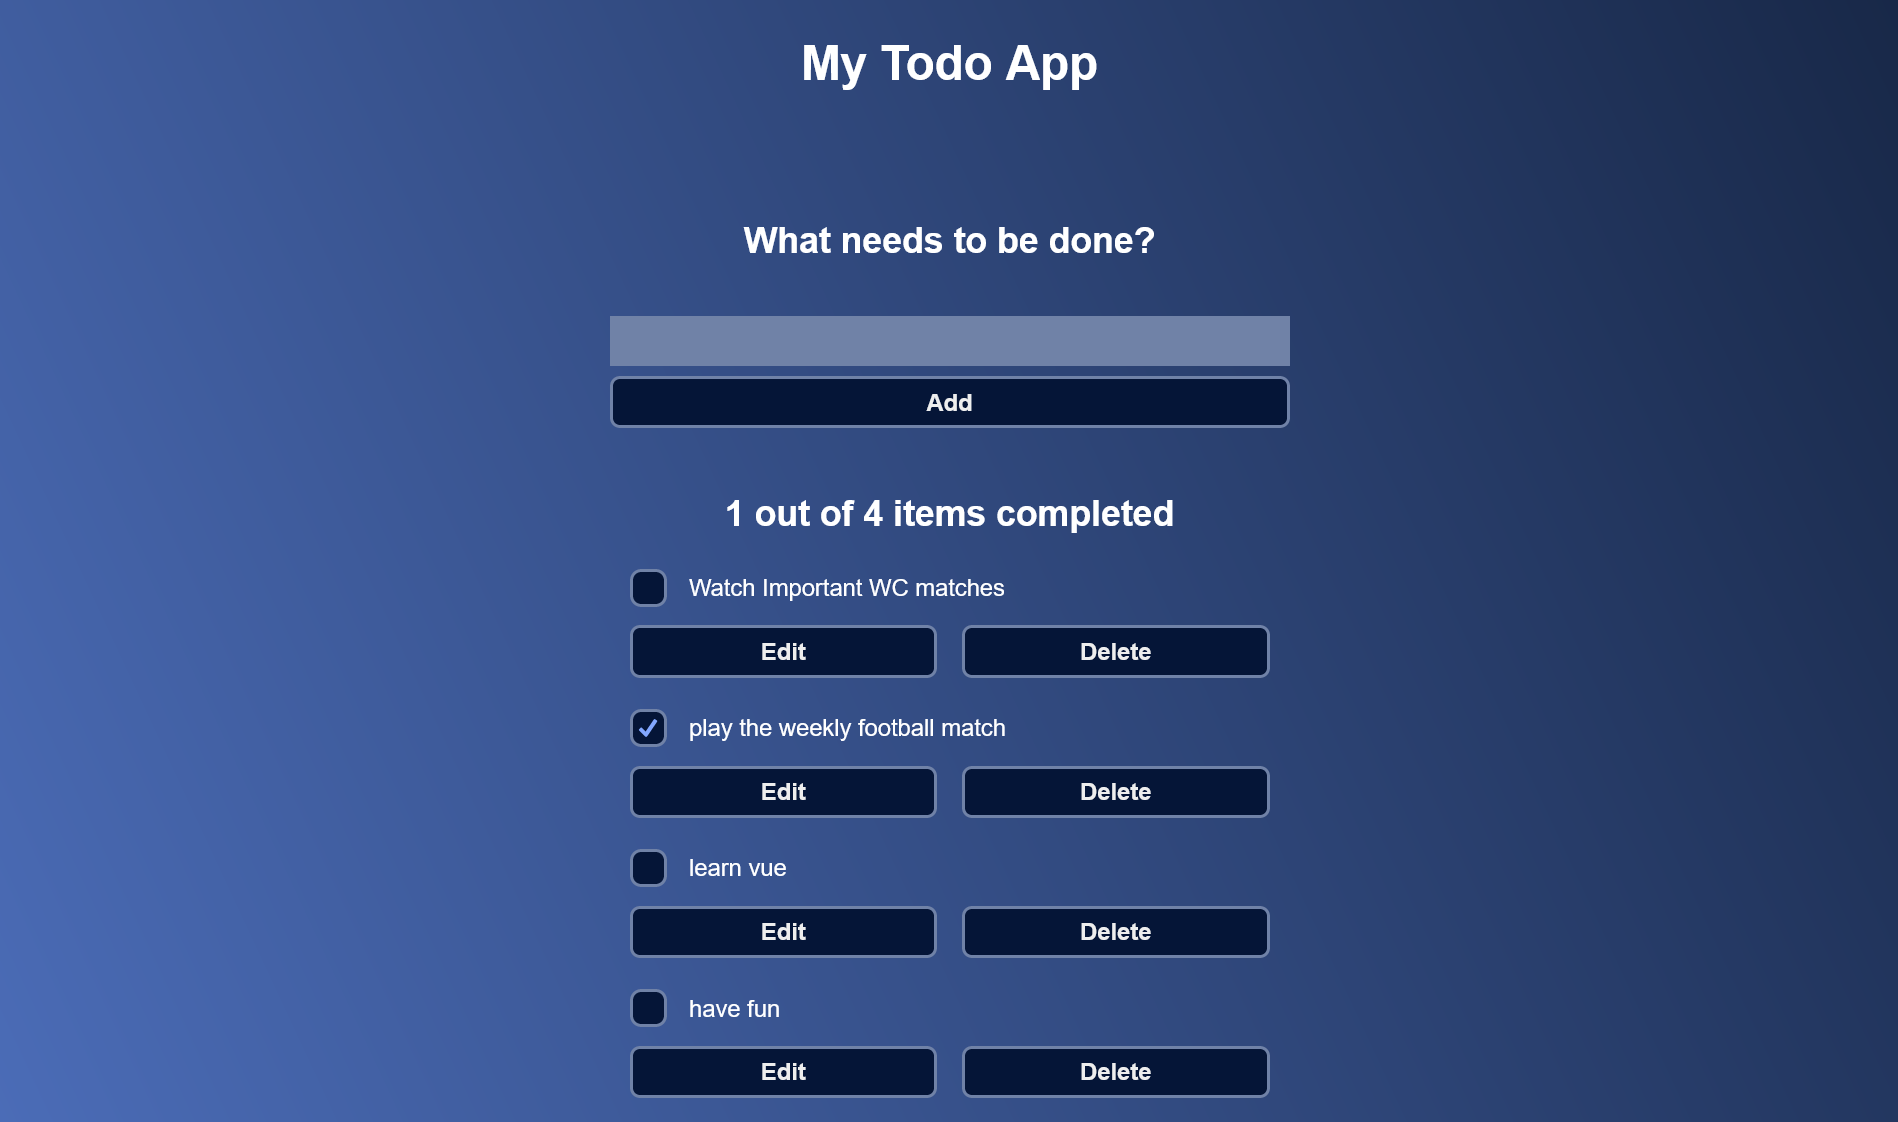
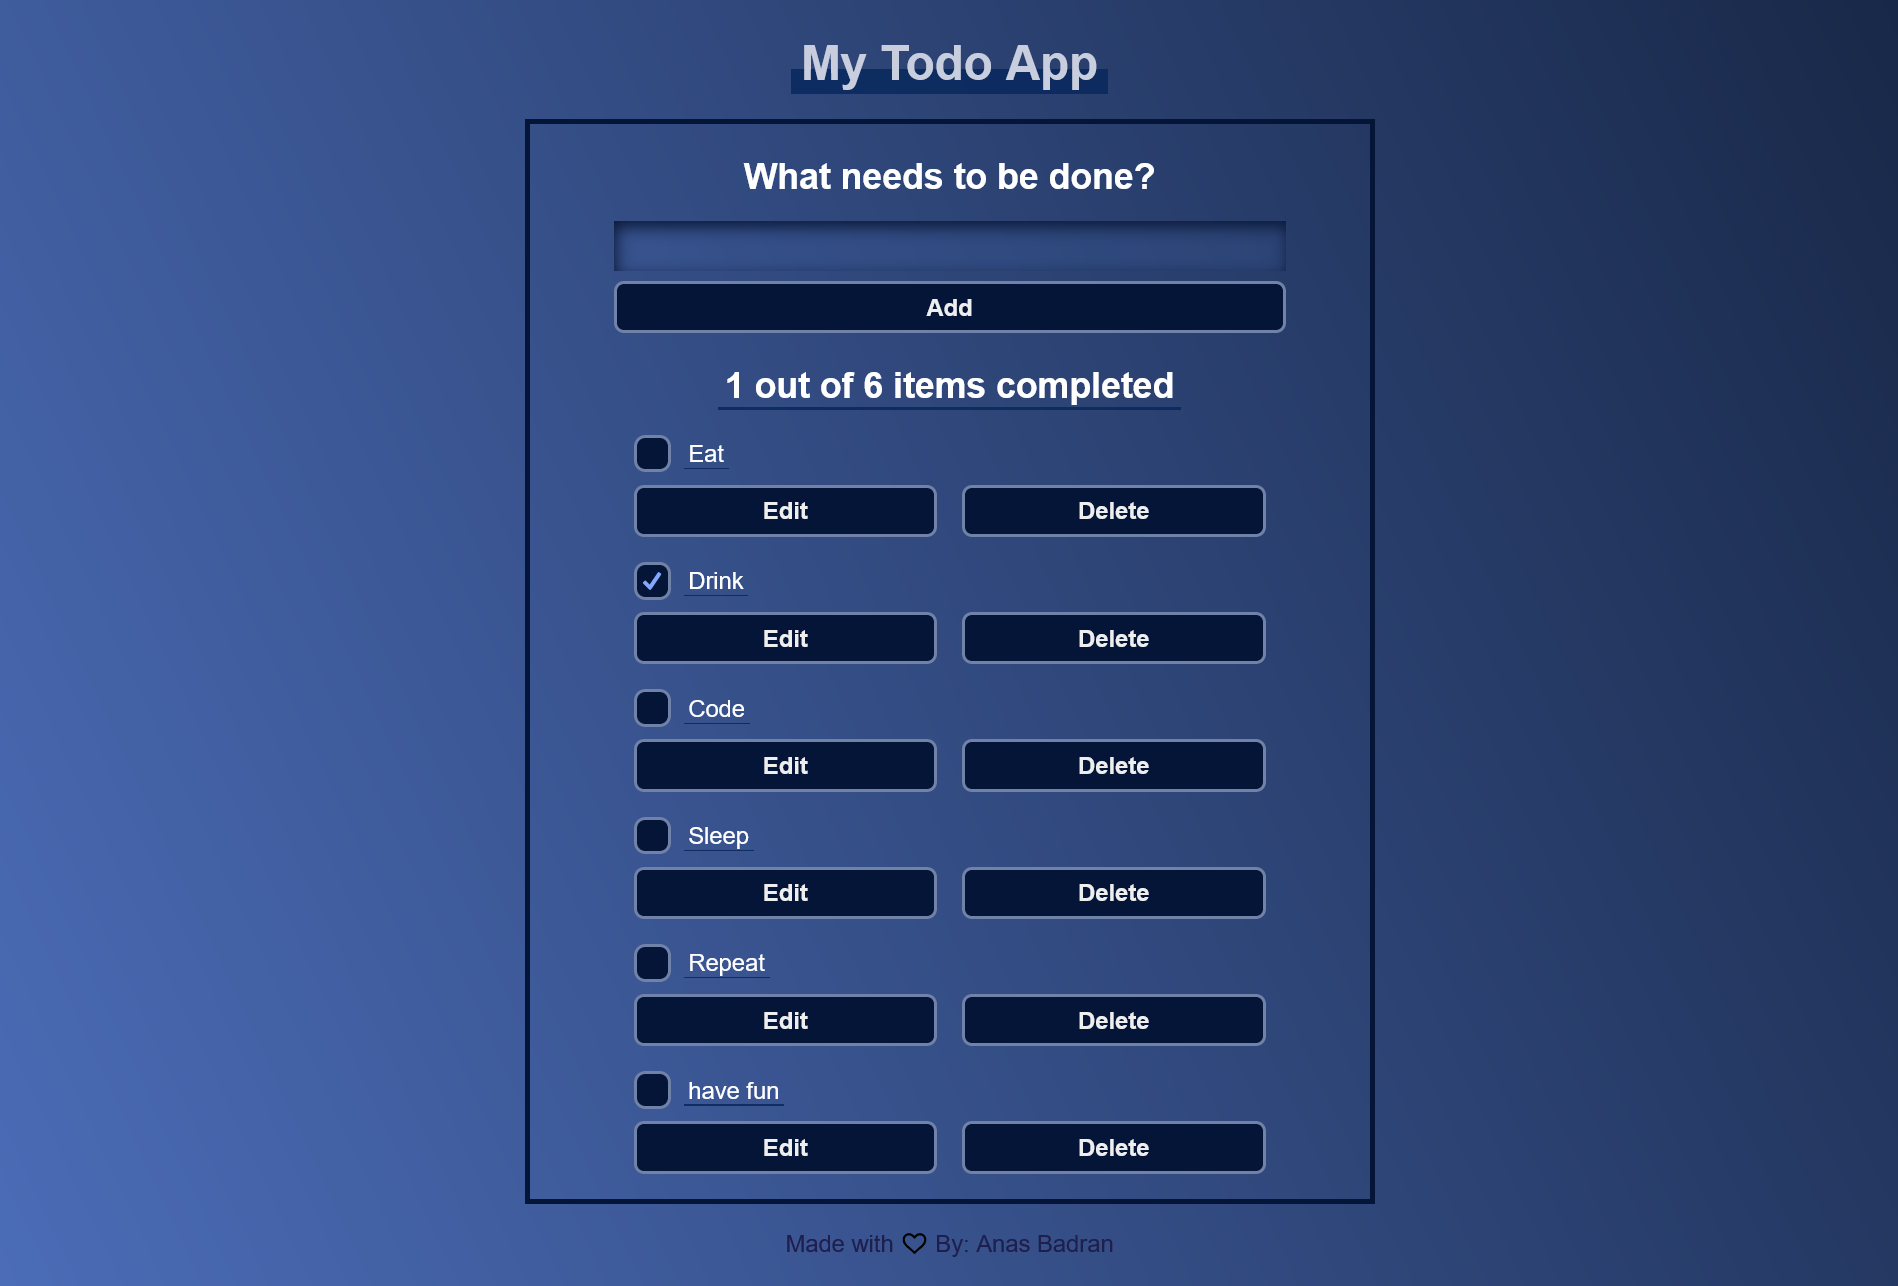
updated the page title

Changed region(s): [[0.2798, 0.1248, 0.746, 0.9982], [0.4041, 0.0312, 0.5906, 0.0936], [0.715, 0.0936, 0.746, 0.1248]]

diff --git a/public/index.html b/public/index.html
@@ -1,15 +1,20 @@
 <!DOCTYPE html>
 <html lang="">
   <head>
-    <meta charset="utf-8">
-    <meta http-equiv="X-UA-Compatible" content="IE=edge">
-    <meta name="viewport" content="width=device-width,initial-scale=1.0">
-    <link rel="icon" href="<%= BASE_URL %>favicon.ico">
-    <title><%= htmlWebpackPlugin.options.title %></title>
+    <meta charset="utf-8" />
+    <meta http-equiv="X-UA-Compatible" content="IE=edge" />
+    <meta name="viewport" content="width=device-width,initial-scale=1.0" />
+    <link rel="icon" href="<%= BASE_URL %>favicon.ico" />
+    <!-- <title><%= htmlWebpackPlugin.options.title %></title> -->
+    <title>TODO App</title>
   </head>
   <body>
     <noscript>
-      <strong>We're sorry but <%= htmlWebpackPlugin.options.title %> doesn't work properly without JavaScript enabled. Please enable it to continue.</strong>
+      <strong
+        >We're sorry but <%= htmlWebpackPlugin.options.title %> doesn't work
+        properly without JavaScript enabled. Please enable it to
+        continue.</strong
+      >
     </noscript>
     <div id="app"></div>
     <!-- built files will be auto injected -->
